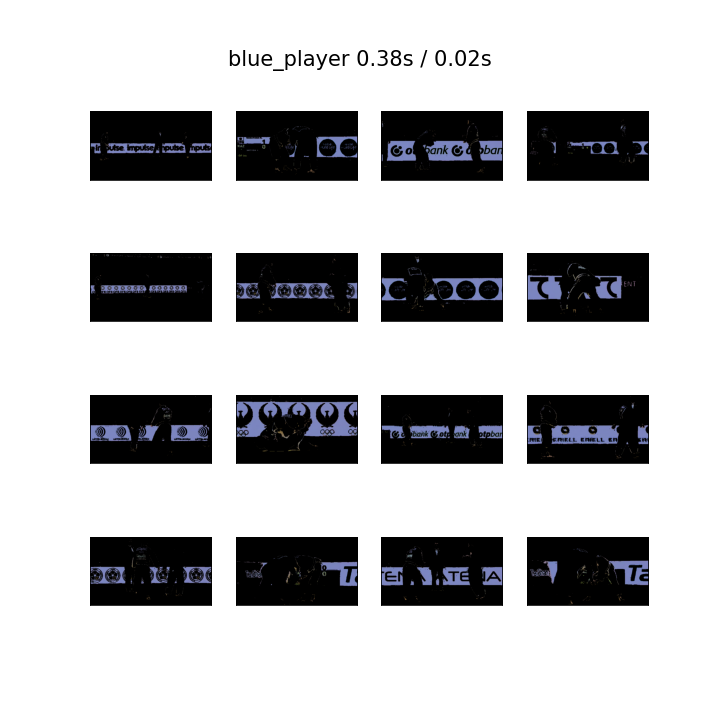
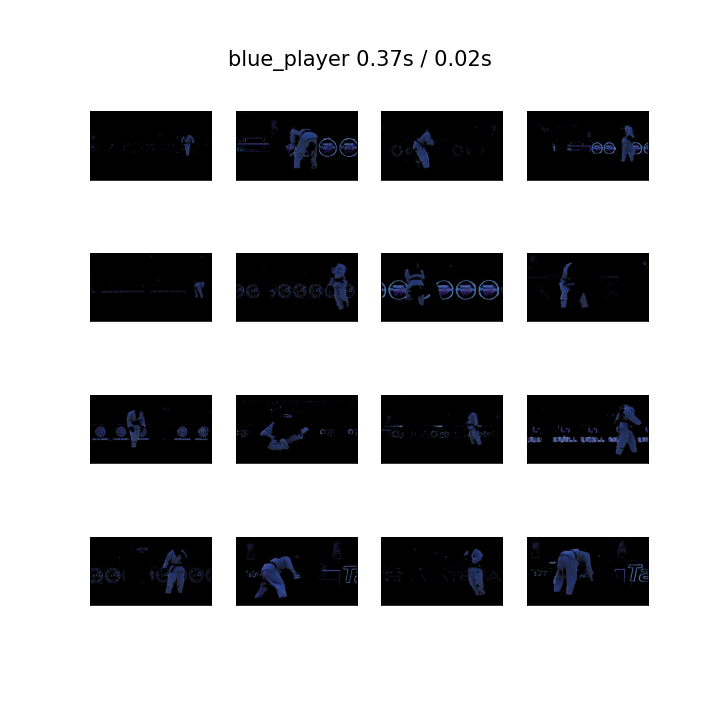
[segmentation] Add bodypix model and finish kmeans clustering

diff --git a/src/color_segmentation.py b/src/color_segmentation.py
@@ -1,4 +1,4 @@
-from model_tester import map_vignette, frames
+from model_tester import map_vignette, frames, load_image
 import cv2 as cv
 import matplotlib.pyplot as plt
 from sklearn.cluster import KMeans
@@ -21,7 +21,7 @@ def apply_mask(mask):
     @load_image
     def _apply_mask(image):
         hsv_image = cv.cvtColor(image, cv.COLOR_RGB2HSV)
-        calibrated_mask = mask(image)
+        calibrated_mask = mask(hsv_image)
         masked_img = cv.bitwise_and(image, image, mask=calibrated_mask)
 
         return masked_img
@@ -30,74 +30,69 @@ def apply_mask(mask):
 
 
 # %% K-means clustering
-mat_yellow = (215, 214, 140)
-navy_blue_gi = (39, 73, 137)
-white_gi = (183, 186, 199)
-red_logo = (192, 86, 134)
-dark_background = (20, 28, 51)
-ad_color = (111, 133, 203)
 
-initial_clusters = np.array([
-    white_gi,
-    navy_blue_gi,
-    mat_yellow,
-    red_logo,
-    dark_background,
-    ad_color
-])
+initial_clusters = {
+    "yellow_mat": (215, 214, 140),
+    "navy_blue_gi": (39, 73, 137),
+    "white_gi": (183, 186, 199),
+    "red_logo": (192, 86, 134),
+    "dark_background": (20, 28, 51),
+    "ad_color": (111, 133, 203),
+}
 
-n_clusters = 6
+centroids = np.array(list(initial_clusters.values()))
+n_clusters = len(initial_clusters)
 
 @load_image
 def kmeans_color_clustering(image):
     reshaped = image.reshape((-1, 3))
 
-    clt = KMeans(n_clusters=6, init=initial_clusters)
+    clt = KMeans(n_clusters=n_clusters, init=centroids)
     clt.fit(reshaped)
 
     colors = clt.cluster_centers_
-    segmented_image = np.array([colors[clt.labels_[i]] for i in range(len(clt.labels_))])
-    segmented_image = segmented_image.reshape((360, 640, 3)) / 255.
+    clustered_image = np.array([colors[clt.labels_[i]] for i in range(len(clt.labels_))])
+    clustered_image = clustered_image.reshape((360, 640, 3)) / 255.
 
-    return segmented_image
-
-
-# TODO
-# def srgb(c1, c2):
-#     return (c2[0] - c1[0]) ** 2 + (c2[1] - c1[1]) ** 2 + (c2[2] - c1[2]) ** 2
-#
-# @load_image
-# def kmeans_keep_players(image):
-#     image = plt.imread(frames[3])
-#     reshaped = image.reshape((-1, 3))
-#
-#     clt = KMeans(n_clusters=6, init=initial_clusters)
-#     clt.fit(reshaped)
-#
-#     colors = clt.cluster_centers_
-#     segmented_list = np.array([colors[clt.labels_[i]] for i in range(len(clt.labels_))])
-#     segmented_image = segmented_list.reshape((360, 640, 3))
-#
-#     stack = np.array([white_gi] * 6)
-#     index = np.argmin(srgb(stack.transpose(), colors.transpose()))
-#     bitmask = (segmented_image == colors[index]).astype(np.int32)
-#
-#     masked_image = cv.bitwise_and(image, image, bitmask)
-#     plt.imshow(masked_image)
-#
-#     segmented_image = segmented_image.reshape((360, 640, 3)) / 255.
-#     plt.imshow(segmented_image)
-#
-#     return segmented_image
-#
-# def kmeans_keep_white_blue(path):
-#     kmeans_color_clustering(path)
-#
-# clustered = kmeans_color_clustering(path)
+    return clustered_image
 
 
-map_vignette(apply_mask(white_mask), "white_player")
+# Color distance
+def srgb(c1, c2):
+    return (c2[0] - c1[0]) ** 2 + (c2[1] - c1[1]) ** 2 + (c2[2] - c1[2]) ** 2
 
-map_vignette(apply_mask(blue_mask), "blue_player")
+@load_image
+def kmeans_keep_players(image):
+    reshaped_2d = image.reshape((-1, 3))
 
-map_vignette(kmeans_color_clustering, "kmeans")
+    clt = KMeans(n_clusters=n_clusters, init=centroids)
+    clt.fit(reshaped_2d)
+
+    colors = clt.cluster_centers_
+    clustered_image = np.array([colors[clt.labels_[i]] for i in range(len(clt.labels_))])
+    image = clustered_image.reshape((360, 640, 3))
+
+    # Find the k-means color (centroid) that matches the original gi the closest.
+    # Make a mask out of all the pixels belonging to this cluster.
+    def bitmask_from(color):
+        distance_to_color = srgb(np.array([color] * n_clusters).transpose(), colors.transpose())
+        index_centroid = np.argmin(distance_to_color)
+        belongs_to_cluster = image == colors[index_centroid]
+        bitmask = (belongs_to_cluster[:, :, 0] & belongs_to_cluster[:, :, 1] & belongs_to_cluster[:, :, 2])
+        return bitmask
+
+    mask_union = bitmask_from(initial_clusters["navy_blue_gi"]) | \
+                bitmask_from(initial_clusters["white_gi"]).astype(np.int8)
+    masked_image = cv.bitwise_and(image, image, mask=mask_union)
+    masked_image /= 255.
+
+    return masked_image
+
+
+map_vignette(apply_mask(white_mask), "custom_mask_white")
+
+map_vignette(apply_mask(blue_mask), "custom_mask_blue")
+
+map_vignette(kmeans_color_clustering, "kmeans_clustering")
+
+map_vignette(kmeans_keep_players, "kmeans_only_players")

diff --git a/src/bodypix.py b/src/bodypix.py
@@ -1,0 +1,14 @@
+import tensorflow as tf
+from tf_bodypix.api import download_model, load_model, BodyPixModelPaths
+import numpy as np
+import matplotlib.pyplot as plt
+import cv2 as cv
+
+def bodypix_segmentation():
+    bodypix_model = load_model(download_model(
+        BodyPixModelPaths.RESNET50_FLOAT_STRIDE_16
+    ))
+    result = bodypix_model.predict_single(image_array)
+    colored_mask = result.get_colored_part_mask(mask)
+
+    return colored_mask
